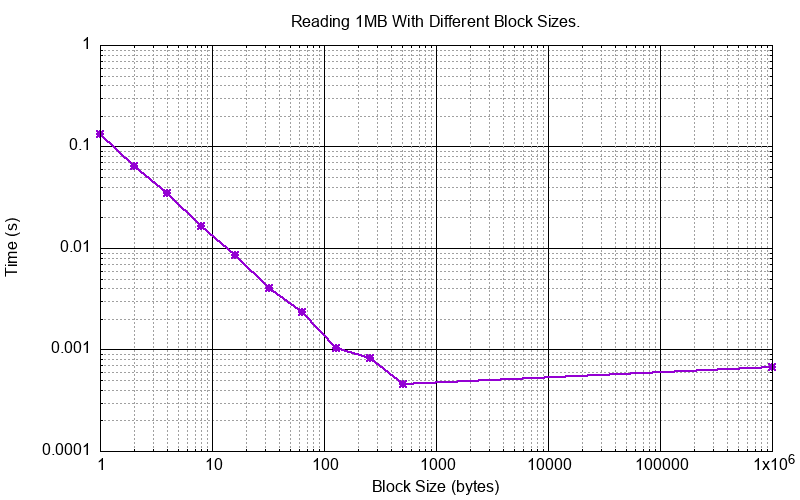
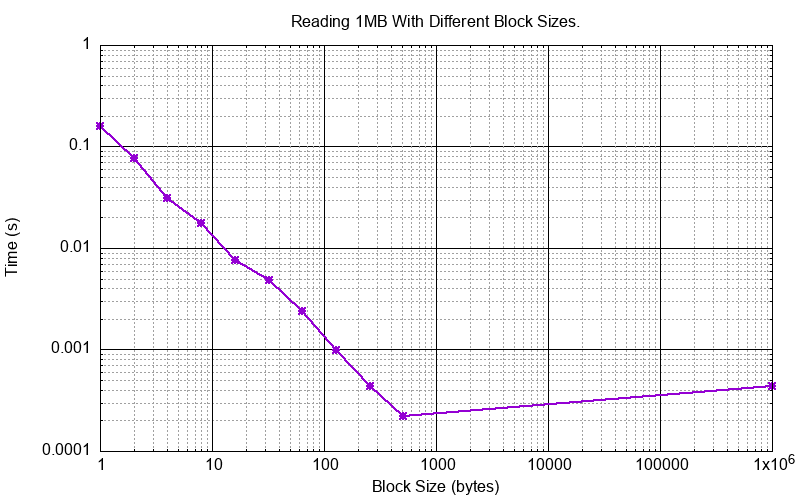
Update performance with data using memcpy().

diff --git a/docs/Sphinx/source/performance.rst b/docs/Sphinx/source/performance.rst
@@ -18,8 +18,8 @@ The y axis shows the time to read all blocks.
 
 .. image:: ../../plots/images/cpp_1mb_read.png
 
-The one byte case corresponds to 7.6 MB/s, the 512 bytes case corresponds to 2,170 MB/s, the single 1MB block case
-corresponds to 1,480 MB/s.
+The one byte case corresponds to 6.3 MB/s, the 512 bytes case corresponds to 4,540 MB/s, the single 1MB block case
+corresponds to 2,300 MB/s.
 
 Need
 ----
